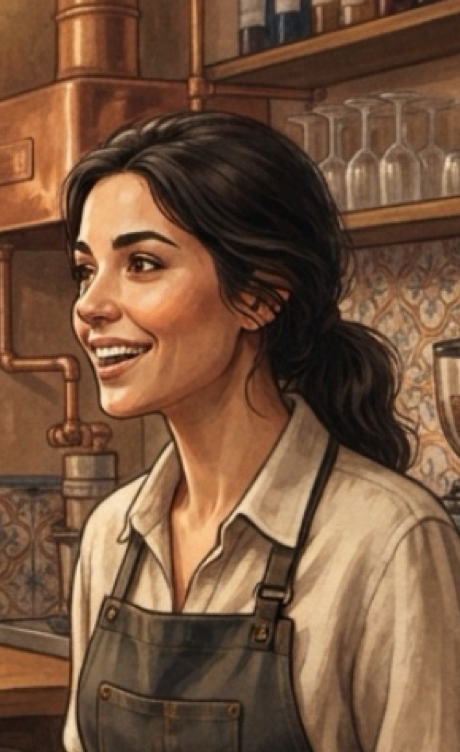
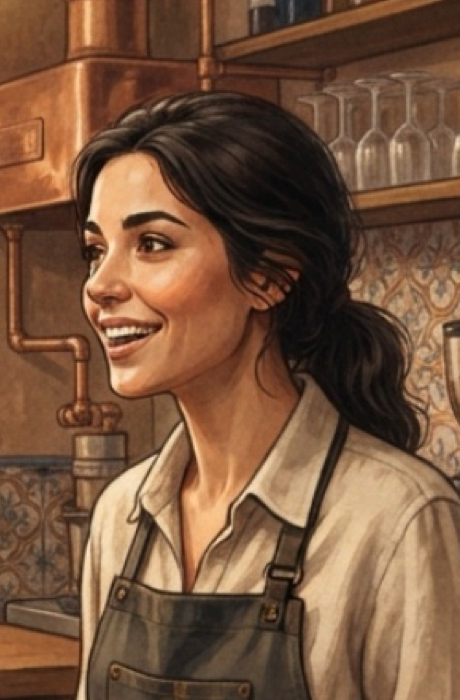
159

diff --git a/face/widgets/mainPage/mainPageAnyLevel/DontKnowStep/DontKnowStep.scss b/face/widgets/mainPage/mainPageAnyLevel/DontKnowStep/DontKnowStep.scss
@@ -6,16 +6,21 @@
 $guy-visible-width: 90rem;
 
 // Ширина карточки, после которой справа помещается и девушка
-$barista-visible-width: 135rem;
+$barista-visible-width: 100rem;
 
-// На узкой карточке только текст во всю ширину. Шире — слева парень, текст занимает остальное место.
-// Ещё шире — справа девушка, текст стоит вплотную к парню, а всё свободное место остаётся между текстом и девушкой
+// Колонки задаёт сетка, а не иллюстрации: те обрезаются по ширине своей колонки.
+// На узкой карточке только текст во всю ширину. Шире — парень и текст делят карточку пополам.
+// Ещё шире — справа девушка: текст занимает половину, парень и девушка по четверти
 .any-level-dont-know-step {
 	display: grid;
 	grid-template-columns: auto minmax(0, 1fr) auto;
 
+	@include mix.container-width($guy-visible-width) {
+		grid-template-columns: minmax(0, 1fr) minmax(0, 1fr) auto;
+	}
+
 	@include mix.container-width($barista-visible-width) {
-		grid-template-columns: auto minmax(0, 44rem) 1fr auto;
+		grid-template-columns: minmax(0, 1fr) minmax(0, 2fr) minmax(0, 1fr);
 	}
 }
 
@@ -30,8 +35,7 @@ $barista-visible-width: 135rem;
 
 .any-level-dont-know-step__barista {
 	display: none;
-	// Последняя колонка: их число зависит от того, показана ли девушка
-	grid-column: -2;
+	grid-column: 3;
 
 	@include mix.container-width($barista-visible-width) {
 		display: block;
@@ -85,6 +89,6 @@ $barista-visible-width: 135rem;
 	color: white;
 	background-color: vars.$textColor;
 	user-select: none;
-	padding: .8rem 1.6rem;
+	padding: .6rem 1.6rem;
 	margin-top: .8rem;
 }

diff --git a/face/widgets/mainPage/mainPageAnyLevel/StepImage/StepImage.scss b/face/widgets/mainPage/mainPageAnyLevel/StepImage/StepImage.scss
@@ -1,15 +1,17 @@
-// Иллюстрация задаёт ширину колонки, но не высоту карточки:
-// нулевая высота не даёт ей растянуть строку сетки, а min-height растягивает её на всю строку.
-// overflow нужен явно: глобальный сброс стилей делает его visible.
-// Из-за overflow сетка могла бы сжать колонку уже иллюстрации, min-width этого не даёт
+// Иллюстрация не влияет ни на ширину колонки, ни на высоту карточки:
+// ширину задаёт сетка шага, высоту — текст. Иллюстрация прижата к верху и стоит по центру колонки.
+// Она может выходить за колонку и заходить под текст: текстовая часть карточки лежит выше.
+// Всё, что выходит за карточку, отсекает сама карточка
 .any-level-step-image {
-	min-width: max-content;
-	height: 0;
-	min-height: 100%;
-	overflow: hidden;
+	position: relative;
+	z-index: 0;
 }
 
 .any-level-step-image__image {
+	position: absolute;
+	top: 0;
+	left: 50%;
 	display: block;
 	max-width: none;
+	transform: translateX(-50%);
 }

diff --git a/face/widgets/mainPage/mainPageAnyLevel/StepCard/StepCard.scss b/face/widgets/mainPage/mainPageAnyLevel/StepCard/StepCard.scss
@@ -24,7 +24,7 @@ $wide-padding-width: 40rem;
 	align-items: baseline;
 	gap: 0.8rem;
 	margin: 0 $padding;
-	padding: 1rem 0 .6rem;
+	padding: .8rem 0 .6rem;
 	border-bottom: 1px solid vars.$grayColor-2;
 
 	@include mix.container-width($wide-padding-width) {
@@ -59,8 +59,10 @@ $wide-padding-width: 40rem;
 }
 
 // Текстовая часть карточки: отступы по краям такие же, как у заголовка.
-// Иллюстрации стоят без отступов, вплотную к краям карточки
+// Иллюстрации стоят без отступов, вплотную к краям карточки, и могут заходить под текстовую часть
 .any-level-step-card__text {
+	position: relative;
+	z-index: 1;
 	padding: $padding;
 
 	@include mix.container-width($wide-padding-width) {

diff --git a/face/widgets/mainPage/mainPageAnyLevel/SayRightStep/SayRightStep.scss b/face/widgets/mainPage/mainPageAnyLevel/SayRightStep/SayRightStep.scss
@@ -7,6 +7,9 @@ $barista-visible-width: 58rem;
 // Ширина карточки, после которой слева помещается и парень
 $guy-visible-width: 76rem;
 
+// Ширина колонок с иллюстрациями: у парня и девушки она одинаковая
+$image-width: 23rem;
+
 // Наибольшая ширина реплики
 $line-max-width: 38rem;
 
@@ -19,6 +22,7 @@ $line-max-width: 38rem;
 .any-level-say-right-step__guy {
 	display: none;
 	grid-column: 1;
+	width: $image-width;
 
 	@include mix.container-width($guy-visible-width) {
 		display: block;
@@ -28,6 +32,7 @@ $line-max-width: 38rem;
 .any-level-say-right-step__barista {
 	display: none;
 	grid-column: 3;
+	width: $image-width;
 
 	@include mix.container-width($barista-visible-width) {
 		display: block;
